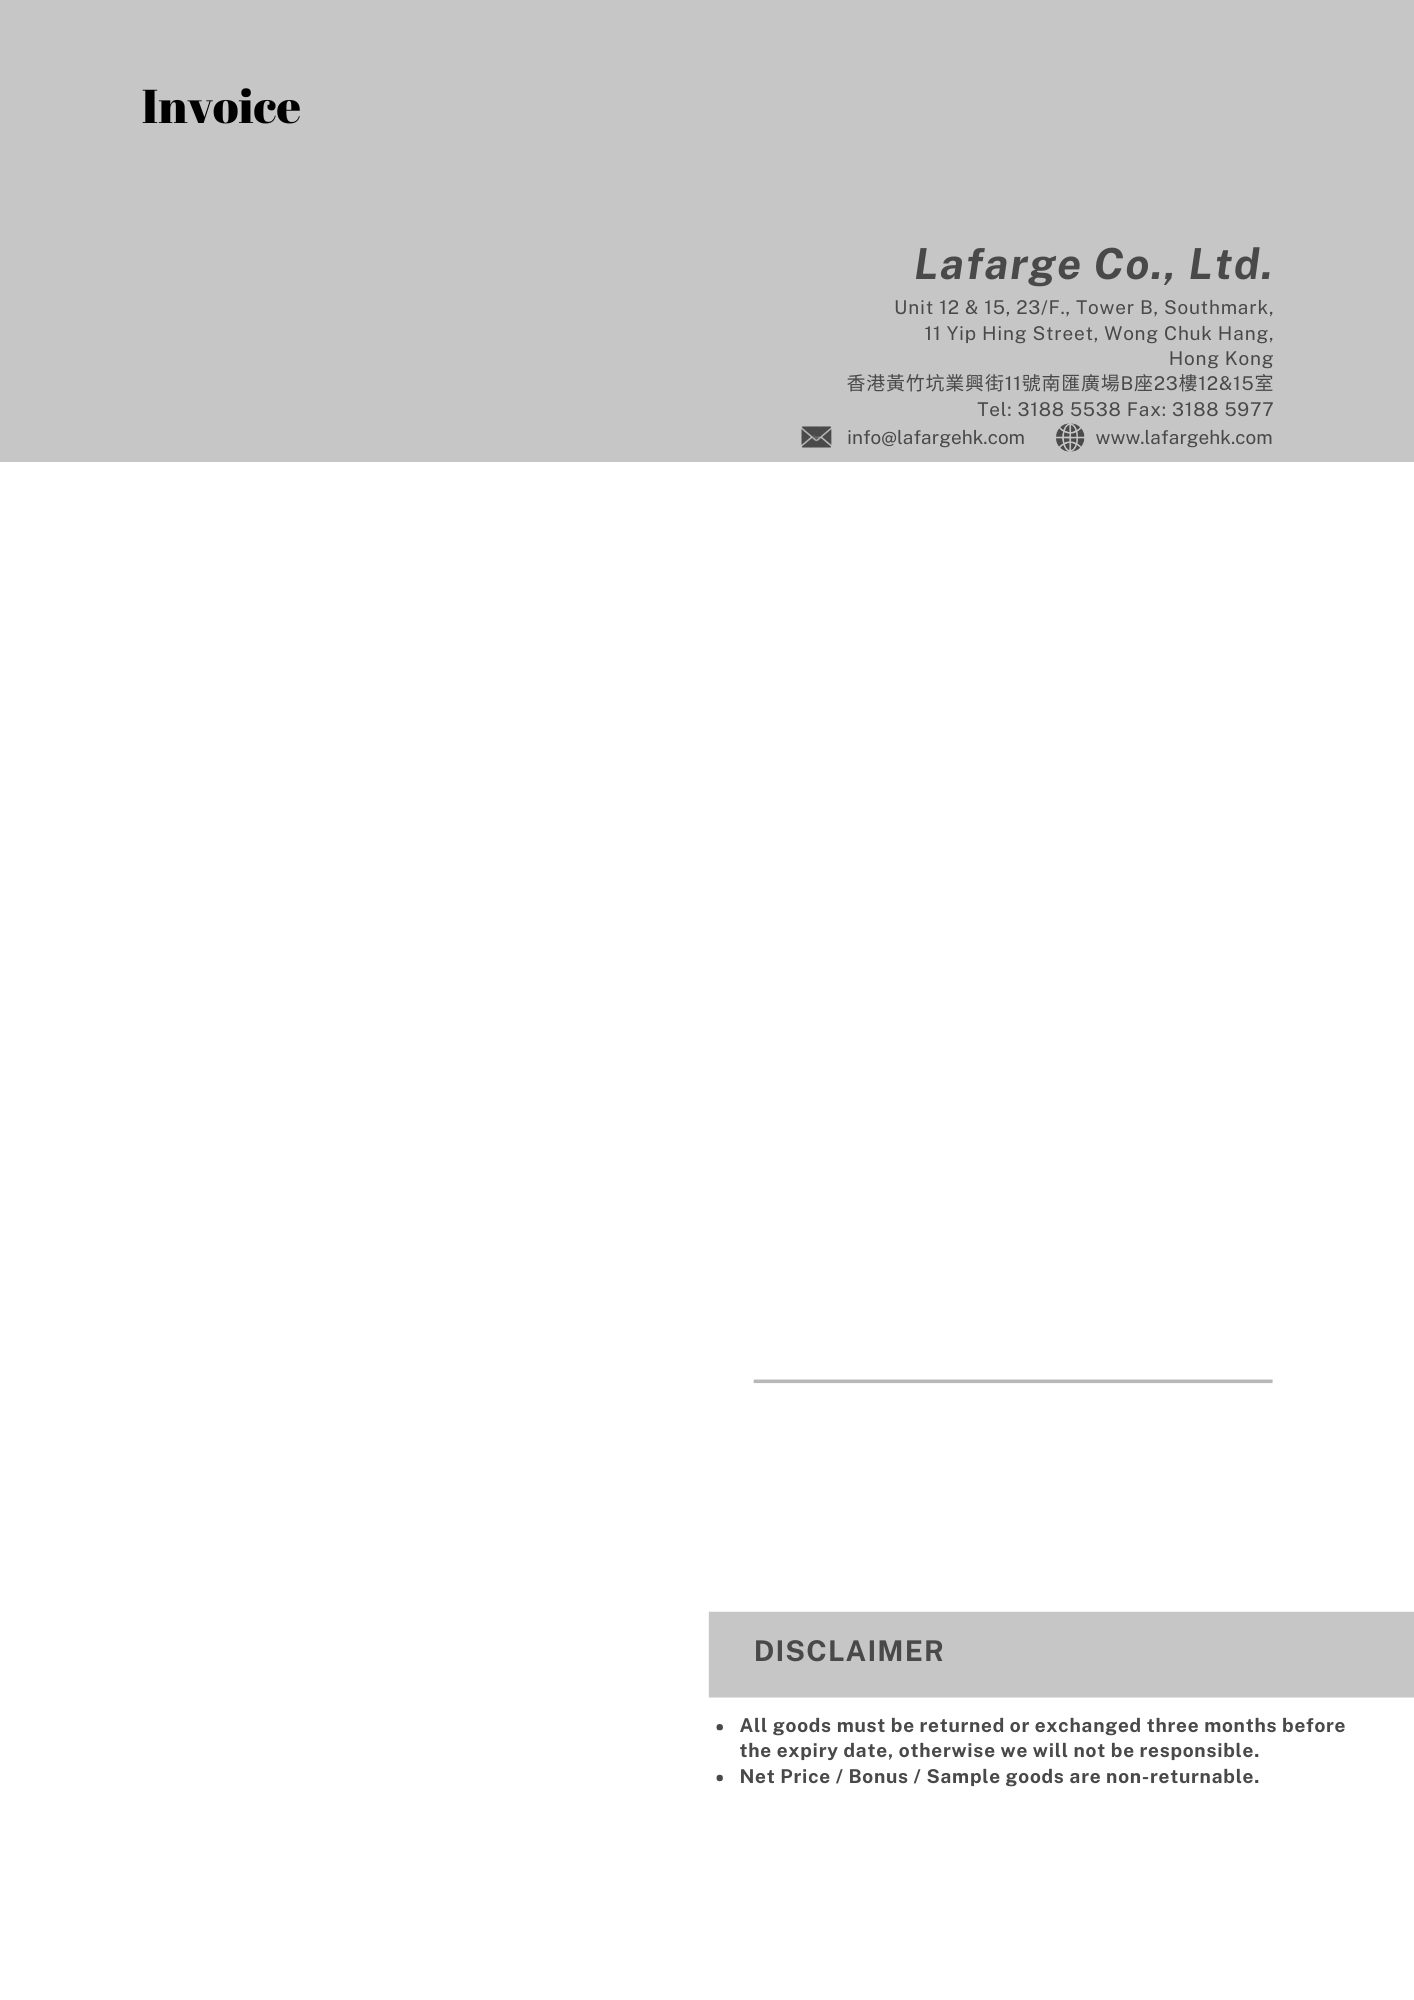
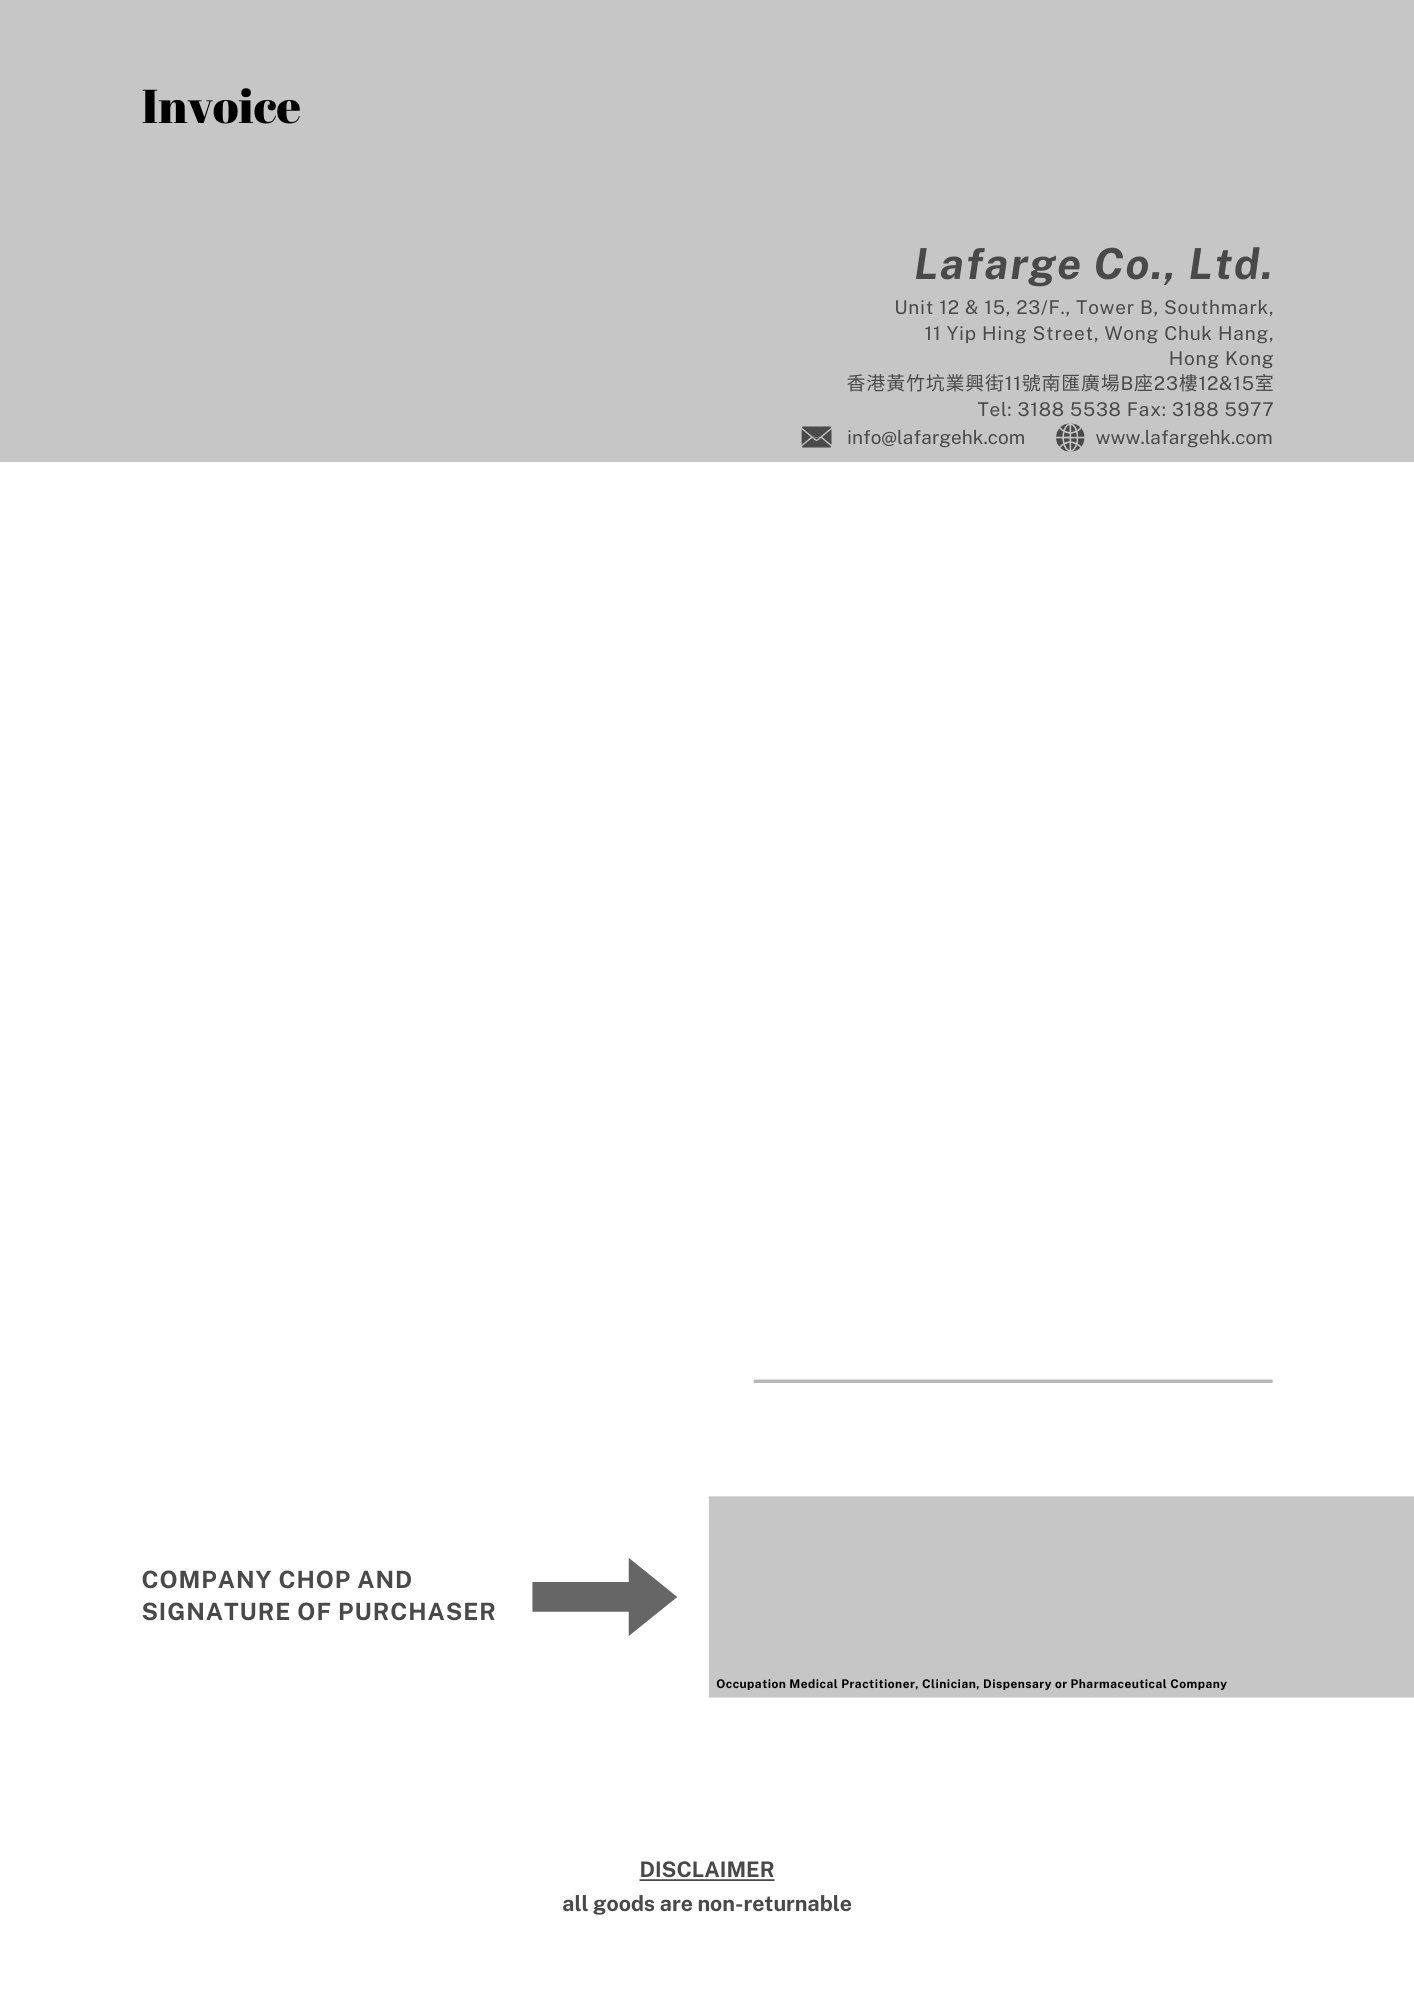
update

diff --git a/lafarge/invoice/pdf_utils.py b/lafarge/invoice/pdf_utils.py
@@ -34,17 +34,31 @@ def draw_invoice_page(pdf, invoice, copy_type):
 
     # Customer information
     address_lines = [line.strip() for line in invoice.customer.address.split("\n") if line.strip()]
+    office_hour_lines = [line.strip() for line in invoice.customer.office_hour.split("\n") if line.strip()]
     pdf.setFont("Helvetica-Bold", 14)
     pdf.drawString(70, height - 215, f"Sold To: {invoice.customer.name}")
-    y_position = height - 235
+    pdf.drawString(70, height - 235, f"Care Of: {invoice.customer.care_of}" if invoice.customer.care_of else "")
+    y_position = height - 255
     # Create a TextObject for multi-line address
     text_object = pdf.beginText(70, y_position)
     text_object.setFont("Helvetica", 10)
     for line in address_lines:
         text_object.textLine(line)
+
+    text_object.textLine(f"Tel: {invoice.customer.telephone_number} ({invoice.customer.contact_person})" if invoice.customer.telephone_number else "")
     pdf.drawText(text_object)
-    pdf.drawString(350, height - 215, f"Office Hour: {invoice.customer.available_from} to {invoice.customer.available_to}")
-    pdf.drawString(350, height - 235, f"Close on: {invoice.customer.close_day}" if invoice.customer.close_day else "")
+
+    text_object = pdf.beginText(450, y_position)
+    text_object.setFont("Helvetica", 10)
+    for line in office_hour_lines:
+        text_object.textLine(line)
+    pdf.drawText(text_object)
+
+
+
+    #pdf.drawString(350, height - 215, f"Office Hour: {invoice.customer.available_from} to {invoice.customer.available_to}")
+    #pdf.drawString(350, height - 235, f"Close on: {invoice.customer.close_day}" if invoice.customer.close_day else "")
+
     # Salesman and Date
     pdf.setFont("Helvetica-Bold", 8)
     pdf.drawString(70, height - 110, f"Date : ")
@@ -55,15 +69,25 @@ def draw_invoice_page(pdf, invoice, copy_type):
 
     # Table for Invoice Items
     if copy_type == "Poison Form":
-        data = [["Quantity", "Product"]]
+        # Aggregate quantities for products with the same name
+        product_quantities = {}
         for item in invoice.invoiceitem_set.all():
+            product_name = item.product.name
+            if product_name in product_quantities:
+                product_quantities[product_name] += item.quantity
+            else:
+                product_quantities[product_name] = item.quantity
+
+        # Prepare table data
+        data = [["Quantity", "Product"]]
+        for product_name, total_quantity in product_quantities.items():
             data.append([
-                f"{item.quantity} {item.product.unit}",
-                item.product.name,
+                f"{total_quantity} {item.product.unit}",  # Use the unit from the last item processed
+                product_name,
             ])
 
         # Configure table styles
-        table = Table(data, colWidths=[50, 250, 100, 100])
+        table = Table(data, colWidths=[50, 250])
         table.setStyle(TableStyle([
             ('TEXTCOLOR', (0, 0), (-1, 0), colors.black),
             ('ALIGN', (0, 0), (-1, -1), 'CENTER'),
@@ -80,11 +104,15 @@ def draw_invoice_page(pdf, invoice, copy_type):
     else:
         data = [["Quantity", "Product", "Unit Price", "Amount"]]
         for item in invoice.invoiceitem_set.all():
+            # Check if the item type is "bonus" or "sample"
+            unit_price_display = item.invoice_type if item.invoice_type in ["bonus",
+                                                                            "sample"] else f"${item.net_price:,.2f} (Net Price)" if item.net_price else f"${item.price:,.2f}"
+
             data.append([
                 f"{item.quantity} {item.product.unit}",
-                f"{item.product.name} ({item.invoice_type})" if item.invoice_type != "normal" else item.product.name,
-                f"${item.net_price:,.2f} (Net Price)" if item.net_price else f"${item.price:,.2f}",
-                f"${item.sum_price:,.2f}"
+                item.product.name,  # Display product name in the Product column
+                unit_price_display,  # Display the type or the price in the Unit Price column
+                f"${item.sum_price:,.2f}" if item.sum_price != 0 else "-"
             ])
 
         # Configure table styles

diff --git a/lafarge/invoice/admin.py b/lafarge/invoice/admin.py
@@ -3,8 +3,8 @@ from .models import Customer, Salesman, Deliveryman, Invoice, InvoiceItem, Produ
 
 @admin.register(Customer)
 class CustomerAdmin(admin.ModelAdmin):
-    list_display = ('name', 'address')
-    search_fields = ('name', 'address')
+    list_display = ('name', 'care_of', 'address', 'telephone_number')
+    search_fields = ('name', 'care_of', 'address', 'telephone_number')
 
 @admin.register(Salesman)
 class SalesmanAdmin(admin.ModelAdmin):
@@ -37,6 +37,7 @@ class InvoiceItemInline(admin.TabularInline):
 
 @admin.register(Invoice)
 class InvoiceAdmin(admin.ModelAdmin):
+    autocomplete_fields = ['customer']
     list_display = ('number', 'terms', 'customer', 'delivery_date', 'payment_date', 'total_price')
     search_fields = ('number', 'customer__name')
     inlines = [InvoiceItemInline]

diff --git a/lafarge/invoice/models.py b/lafarge/invoice/models.py
@@ -5,10 +5,11 @@ from django.dispatch import receiver
 
 class Customer(models.Model):
     name = models.CharField(max_length=255)
+    care_of = models.CharField(max_length=255, blank=True, null=True)
     address = models.TextField()
-    available_from = models.CharField(max_length=255, blank=True, null=True)
-    available_to = models.CharField(max_length=255, blank=True, null=True)
-    close_day = models.CharField(max_length=255, blank=True, null=True)
+    office_hour = models.TextField(blank=True, null=True)
+    telephone_number = models.CharField(max_length=255, blank=True, null=True)
+    contact_person = models.CharField(max_length=255, blank=True, null=True)
 
     def __str__(self):
         return self.name
